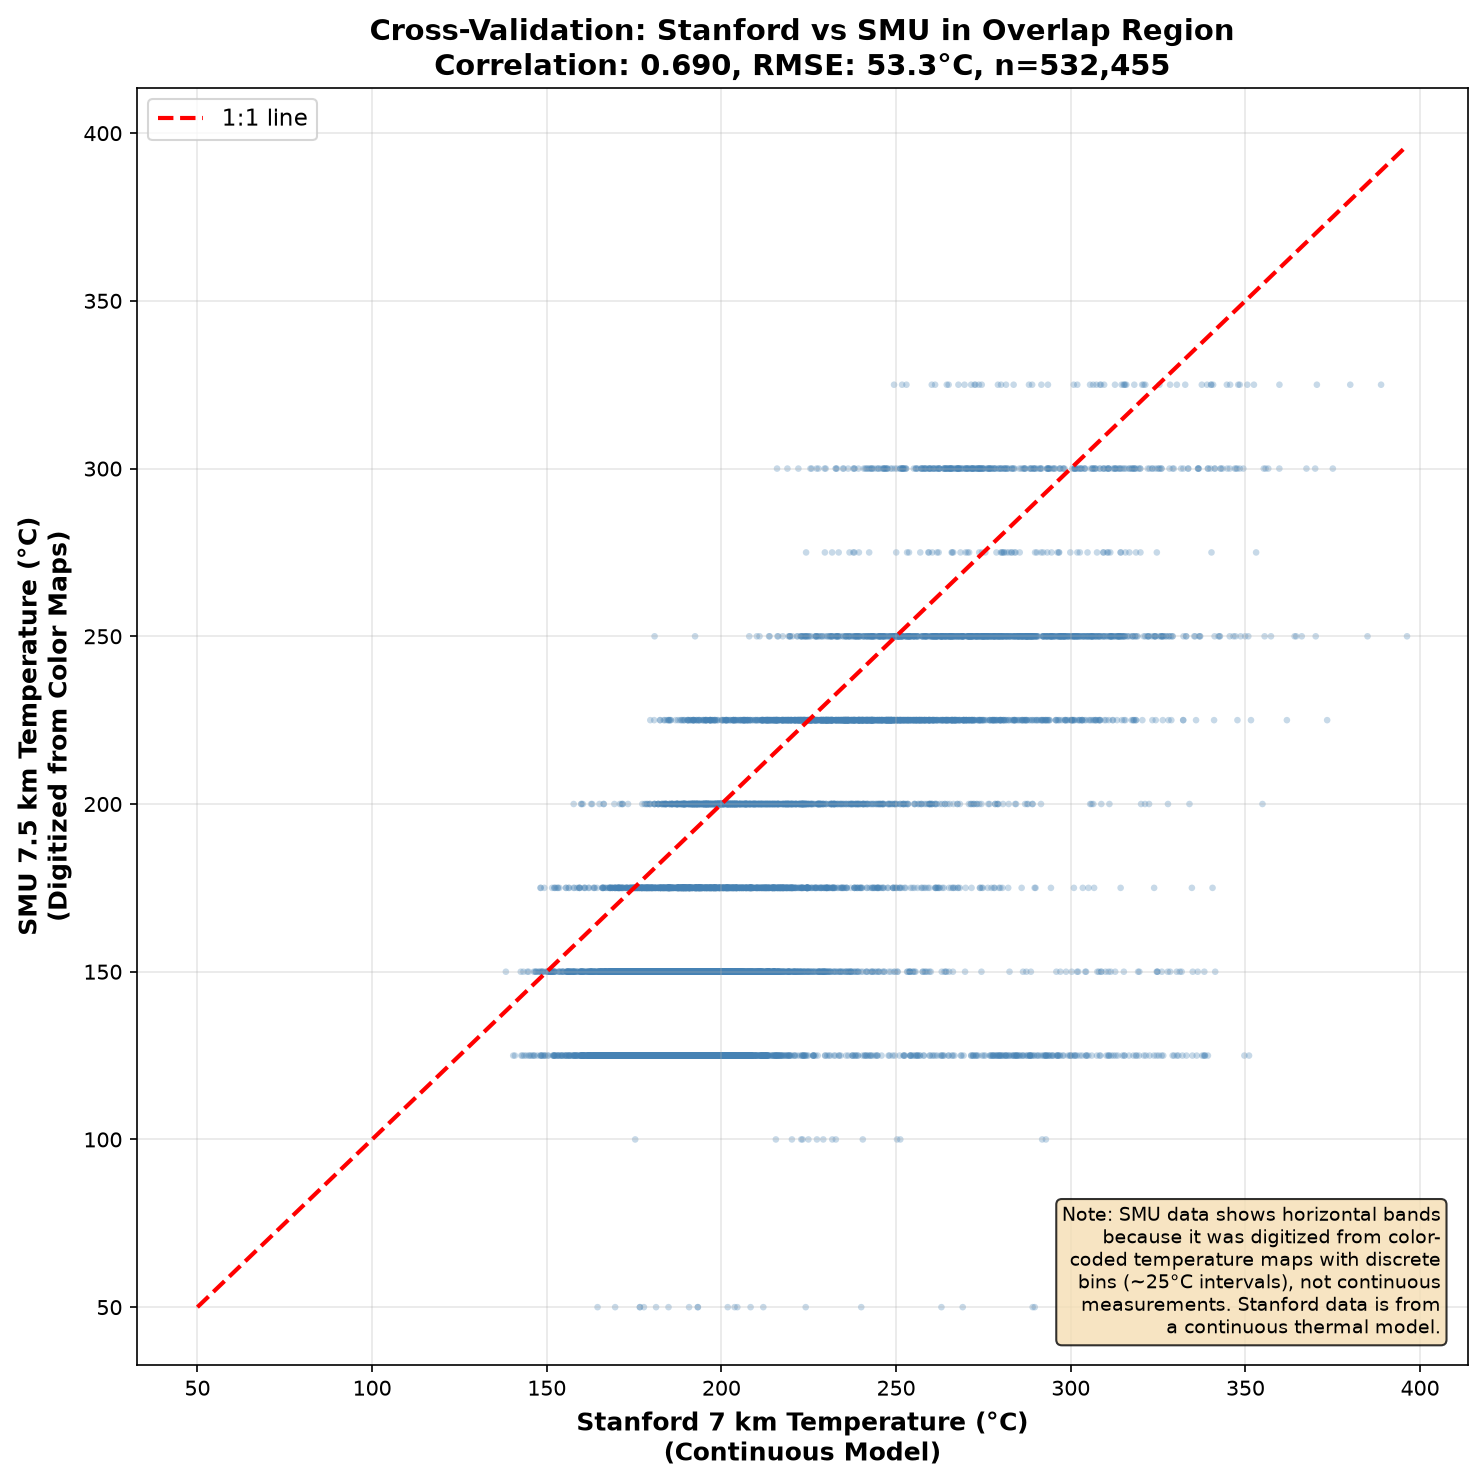
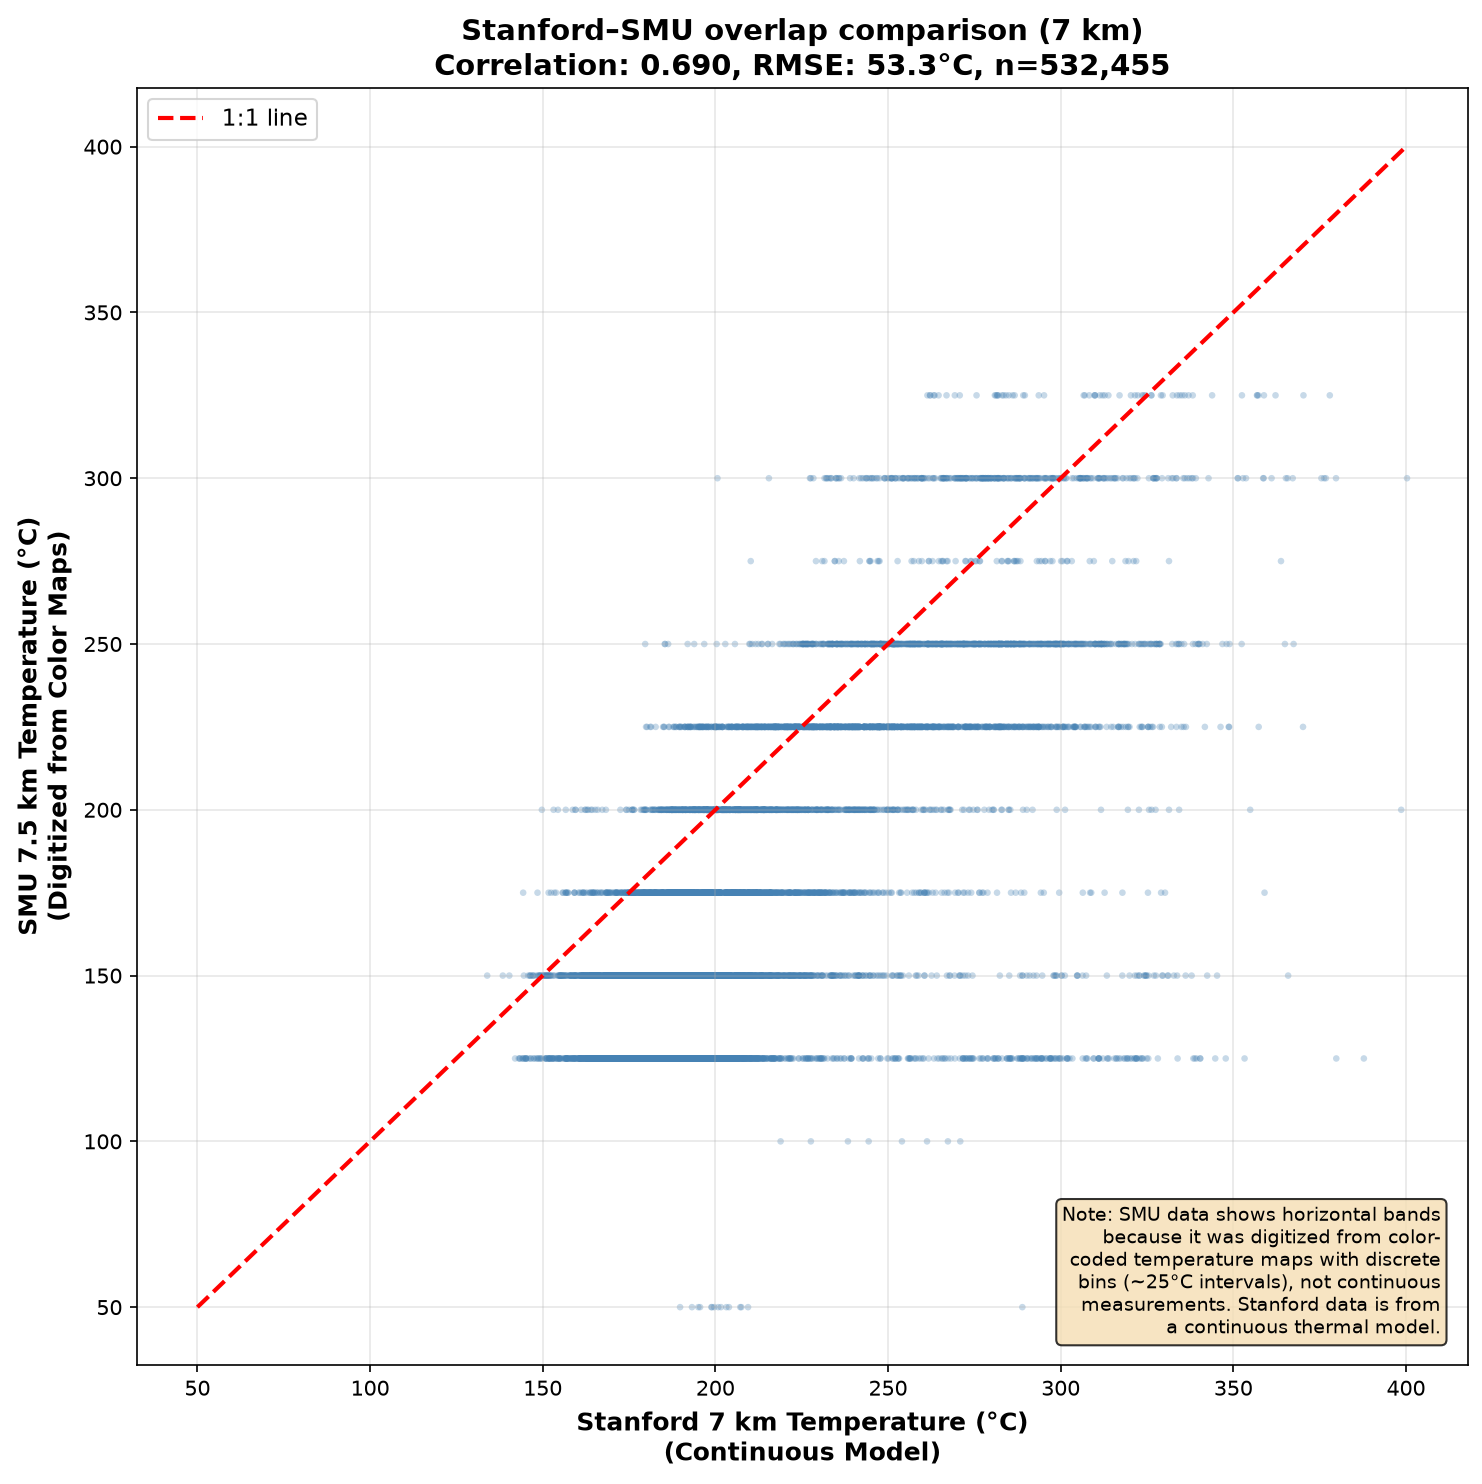
Add cumulative area + data-source columns; soften overstated wording
Depth table: add a Data source column (marking the Stanford <=7 km ->
SMU 7.5-10 km handoff) and a cumulative % reaching 300 C column, making
the ~4.70% at 7 km -> 26.30% at 10 km result visible in place. Reframe the
section so the area-vs-depth result reads as primary and the ~13,371 GW
figure as a downstream, assumption-laden scenario.

Wording fixes:
- '-100 deg longitude is the divide between' -> 'broadly tracks the
  transition between' (not a precise geological boundary).
- Rename the Stanford/SMU 'cross-validation' comparison to 'Stanford-SMU
  overlap comparison' in README, VALIDATION, docs, and the plot title
  (regenerated: r=0.690, RMSE 53.3 C, n=532,455 unchanged). Neither dataset
  is ground truth for the other.
- The >10 km rows are 'unresolved' depth, not 'unreachable' 300 C: superhot/
  EGS drilling targets ~15-20 km, so the data simply doesn't resolve the
  crossing depth past 10 km.

diff --git a/calculate_depth_to_300c.py b/calculate_depth_to_300c.py
@@ -567,7 +567,7 @@ def cross_validate_stanford_smu_overlap(stanford_data, smu_data):
 
     ax.set_xlabel('Stanford 7 km Temperature (°C)\n(Continuous Model)', fontsize=12, fontweight='bold')
     ax.set_ylabel('SMU 7.5 km Temperature (°C)\n(Digitized from Color Maps)', fontsize=12, fontweight='bold')
-    ax.set_title(f'Cross-Validation: Stanford vs SMU in Overlap Region\n'
+    ax.set_title(f'Stanford–SMU overlap comparison (7 km)\n'
                 f'Correlation: {correlation:.3f}, RMSE: {rmse:.1f}°C, n={n_valid:,}',
                 fontsize=14, fontweight='bold')
     ax.grid(True, alpha=0.3)

diff --git a/README.md b/README.md
@@ -33,9 +33,9 @@ TIGER 2023 boundaries. Grey regions require >10 km drilling depth.*
 
 ## Where the models suggest accessible resources may be
 
-The modeled ≤10 km resource is overwhelmingly west of roughly **−100° longitude** — the divide
-between the actively extending, thin-crust West and the cold, thick, stable craton beneath the
-eastern two-thirds of the country. Even there it is not one contiguous target: the **2,770 cells
+The modeled ≤10 km resource is overwhelmingly west of roughly **−100° longitude**, which broadly
+tracks the transition between the actively extending, thin-crust West and the cold, thick, stable
+craton beneath the eastern two-thirds of the country. Even there it is not one contiguous target: the **2,770 cells
 reaching 300 °C within 6 km** cluster in a handful of distinct volcanic and rift settings. The
 table below grounds each in coordinates and modeled depth, read straight off the grid
 ([`data/processed/geographic_reference.csv`](data/processed/geographic_reference.csv)); the
@@ -73,23 +73,43 @@ whether a well here could produce power. For the coal-plant view of the resource
 
 ---
 
-## Illustrative generation scenario by depth
+## Accessible area by drilling depth (with an illustrative generation scenario)
+
+The directly supported result here is the **area reaching 300 °C at each drilling depth** — the
+cumulative column below. On Stanford's continuous 0–7 km model, roughly **4.70 % of CONUS reaches
+300 °C within 7 km**; carrying the estimate into the exploratory SMU layers raises it to
+**26.30 % by 10 km**. That area-vs-depth relationship is the robust finding. The **Capacity (GW)**
+column is a downstream *scenario* layered on top of it — the same area multiplied by an assumed
+power density and development fraction — so it inherits every uncertainty in the area estimate and
+adds its own. Treat the ~13,371 GW figure as an order-of-magnitude illustration, not a resource or
+generation forecast.
+
+The **Data source** column marks where the estimate stops being Stanford's continuous model
+(≤ 7 km) and becomes the coarser, digitized SMU extension (7.5–10 km).
 
 ![Geothermal metrics by depth](plots/geothermal_metrics_by_depth.png)
 
-| Depth | Area (km²) | % CONUS | Capacity (GW) | × US Total |
-|---|---:|---:|---:|---:|
-| ≤4 km | 0 | 0.00 | 0 | 0.0 |
-| 4–5 km | 867 | 0.01 | 5.2 | 0.0 |
-| 5–6 km | 36,014 | 0.50 | 252 | 0.2 |
-| 6–7 km | 304,350 | 4.19 | 2,130 | 1.7 |
-| 7–8 km | 197,784 | 2.72 | 1,384 | 1.1 |
-| 8–10 km | 1,371,312 | 18.88 | 9,599 | 7.5 |
-| **>10 km** | **5,353,343** | **73.70** | **—** | **—** |
-| **≤10 km** | **1,910,326** | **26.30** | **13,371** | **10.4** |
-| *Total* | *7,263,669* | *100.00* | *13,371** | *10.4** |
+| Depth | Data source | Area (km²) | % CONUS | Cum. % reaching 300 °C (≤ depth) | Capacity (GW) | × US Total |
+|---|---|---:|---:|---:|---:|---:|
+| ≤4 km | Stanford | 0 | 0.00 | 0.00 | 0 | 0.0 |
+| 4–5 km | Stanford | 867 | 0.01 | 0.01 | 5.2 | 0.0 |
+| 5–6 km | Stanford | 36,014 | 0.50 | 0.51 | 252 | 0.2 |
+| 6–7 km | Stanford | 304,350 | 4.19 | **4.70** | 2,130 | 1.7 |
+| 7–8 km | SMU | 197,784 | 2.72 | 7.42 | 1,384 | 1.1 |
+| 8–10 km | SMU | 1,371,312 | 18.88 | **26.30** | 9,599 | 7.5 |
+| **>10 km** | — | **5,353,343** | **73.70** | *unresolved* | **—** | **—** |
+| **≤10 km** | Stanford + SMU | **1,910,326** | **26.30** | **26.30** | **13,371** | **10.4** |
+| *Total* | — | *7,263,669* | *100.00* | — | *13,371** | *10.4** |
 
-Area is **latitude-weighted** (`A = R² · cos φ · Δφ · Δλ`). Capacity values shown only for ≤10 km bins where the analysis identifies 300°C within the modeled range. The >10 km category has no capacity estimate because the actual depth to 300°C is unknown for those cells. Values show the scale implied by assumed 35 MW/km² power density (superhot geothermal, 300-400°C) and 20% development; they are not resource or generation forecasts. IDDP-2 demonstrated 45 MW/well at 427°C. US total capacity: **1,287 GW** (coal: 180 GW). See [`research/ENERGY_GENERATION_RESEARCH.md`](research/ENERGY_GENERATION_RESEARCH.md) for details.
+Area is **latitude-weighted** (`A = R² · cos φ · Δφ · Δλ`). The cumulative column is the share of
+CONUS reaching 300 °C within each depth; the **>10 km** row is the share whose depth to 300 °C is
+deeper than the mapped 10 km range — *not* a claim that 300 °C is unreachable there. Superhot and
+EGS drilling programs target ~15–20 km; this data simply does not resolve the crossing depth past
+10 km, so the row carries no cumulative-reach or capacity value. Capacity values
+show the scale implied by an assumed 35 MW/km² power density (superhot geothermal, 300–400 °C) and
+20 % development; IDDP-2 demonstrated 45 MW/well at 427 °C. US total installed capacity for
+comparison: **1,287 GW** (coal: 180 GW). See
+[`research/ENERGY_GENERATION_RESEARCH.md`](research/ENERGY_GENERATION_RESEARCH.md) for details.
 
 ---
 
@@ -105,9 +125,9 @@ The analysis combines two independent thermal models to map subsurface temperatu
 
 At each grid cell, we interpolate through the temperature profile to identify the depth at which conditions cross 300 °C — the threshold used here for superhot geothermal screening. Stanford layers are sorted by geographic coordinates before combining to ensure spatial alignment. SMU matching uses geodetic distance filtering (50 km threshold, cos(latitude) correction for longitude convergence at high latitudes).
 
-![Cross-validation plot](plots/cross_validation_stanford_smu.png)
+![Stanford–SMU overlap comparison](plots/cross_validation_stanford_smu.png)
 
-*Cross-validation at 7 km overlap: r = 0.690, RMSE = 53 °C across 532,455 matched locations (Stanford runs ~39 °C warmer than the digitized SMU estimates). Horizontal banding in SMU data reflects the discrete temperature bins in the source maps (~25 °C intervals).*
+*Stanford–SMU overlap comparison at 7 km: r = 0.690, RMSE = 53 °C across 532,455 matched locations (Stanford runs ~39 °C warmer than the digitized SMU estimates). Neither dataset is ground truth for the other — this shows how far the two independent models agree where they overlap, not a validation of one against the other. Horizontal banding in SMU data reflects the discrete temperature bins in the source maps (~25 °C intervals).*
 
 ### Data Characteristics
 
@@ -454,6 +474,6 @@ Analysis and documentation prepared with [Claude Code](https://claude.ai/code) b
 
 **Christopher Smith** · [@chrissmithphd](https://github.com/chrissmithphd)
 
-*Last updated 2026-09-28*
+*Last updated 2026-09-29*
 
 </div>

diff --git a/docs/DATA_ACQUISITION_REPORT.md b/docs/DATA_ACQUISITION_REPORT.md
@@ -227,7 +227,7 @@ Once Stanford data is fully downloaded, perform:
 > **Update (2026-09-23):** A variant of Option B was ultimately pursued — **without purchase**.
 > Rather than buy SMU grids, the public PNG maps were digitized and Lambert-georeferenced,
 > then used only for depths beyond Stanford's 7 km range (never to override Stanford where both
-> exist). Cross-validation at the 7 km overlap: r = 0.690, RMSE = 53.3°C, n = 532,455.
+> exist). Stanford–SMU overlap comparison at 7 km: r = 0.690, RMSE = 53.3°C, n = 532,455.
 
 **Option C: Regional Deep Data (FUTURE ENHANCEMENT)**
 - Identify specific high-interest regions

diff --git a/docs/SMU_DIGITIZATION_REPORT.md b/docs/SMU_DIGITIZATION_REPORT.md
@@ -243,7 +243,7 @@ plots/
 | 7-10 km | ❌ No | ✅ Yes (7.5, 8.5, 10) |
 | >10 km | ❌ No | ❌ No |
 
-**Overlap:** ~7 km boundary — Stanford's 7 km vs SMU's 7.5 km layer, used for cross-validation (r = 0.690, RMSE 53.3°C, n = 532,455)
+**Overlap:** ~7 km boundary — Stanford's 7 km vs SMU's 7.5 km layer, used for the Stanford–SMU overlap comparison (r = 0.690, RMSE 53.3°C, n = 532,455)
 
 ### Data Quality
 

diff --git a/VALIDATION.md b/VALIDATION.md
@@ -74,7 +74,7 @@ Instead, the results show:
 
 ## Cross-comparison: Stanford vs SMU
 
-![Cross-validation](plots/cross_validation_stanford_smu.png)
+![Stanford–SMU overlap comparison](plots/cross_validation_stanford_smu.png)
 
 **At 7 km overlap region** (after the SMU Lambert re-georeferencing):
 - **Correlation**: 0.690
